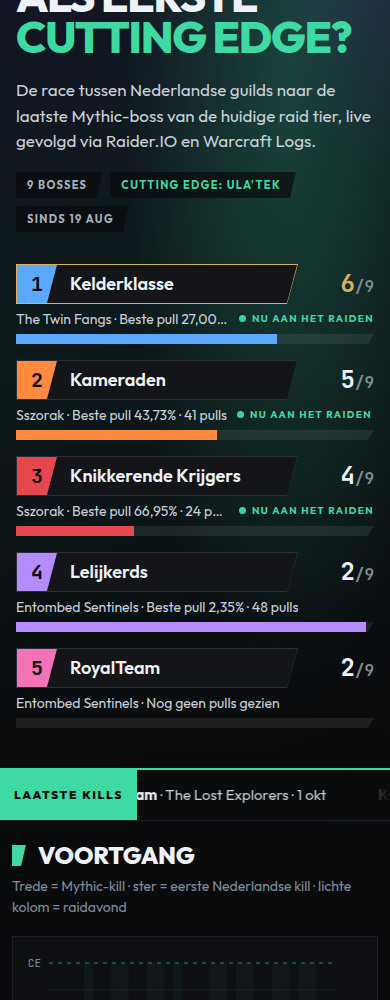
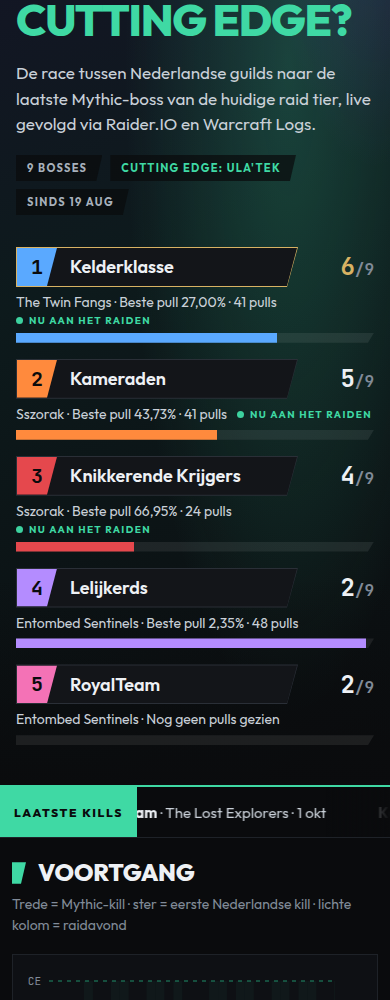
Board: the label wraps instead of cutting a number off (raiding badge drops under it); Hall of fame fold: one hairline, the footer's closes it

diff --git a/site/splash.css b/site/splash.css
@@ -91,9 +91,10 @@
 .row__kills small { font-size: 16px; color: var(--ink-300); }
 .row--lead .row__kills { color: var(--gold); }
 .row__fight { display: grid; gap: 6px; min-width: 0; }
-.row__top { display: flex; align-items: center; gap: 10px; min-width: 0; }
+/* The label wraps instead of cutting a number off; the badge drops under it when it has to. */
+.row__top { display: flex; flex-wrap: wrap; align-items: center; gap: 2px 10px; min-width: 0; }
 .row__top .row__live { margin-left: 0; flex: 0 0 auto; }
-.row__label { font-size: 14px; color: var(--paper-dim); overflow: hidden; text-overflow: ellipsis; white-space: nowrap; }
+.row__label { font-size: 14px; line-height: 1.35; color: var(--paper-dim); }
 .row__hp {
   display: block; height: 10px; background: rgba(255, 255, 255, .08);
   clip-path: polygon(0 0, 100% 0, calc(100% - 6px) 100%, 0 100%);

diff --git a/site/style.css b/site/style.css
@@ -216,7 +216,7 @@ details[open] > .disclose::before { transform: rotate(45deg); }
 .gs-pulls__src:hover { color: var(--jade); }
 
 /* ---- folded sections (Hall of fame): a quiet row between hairlines, not a section head --- */
-.fold { border-top: 1px solid var(--ink-700); border-bottom: 1px solid var(--ink-700); }
+.fold { border-top: 1px solid var(--ink-700); } /* the footer's top rule closes it */
 .fold__summary { cursor: pointer; padding: 16px 2px; flex-wrap: wrap; }
 .fold__title { font-size: 16px; font-weight: 700; color: var(--paper); }
 .fold__hint { font-size: 14px; color: var(--ink-300); }
